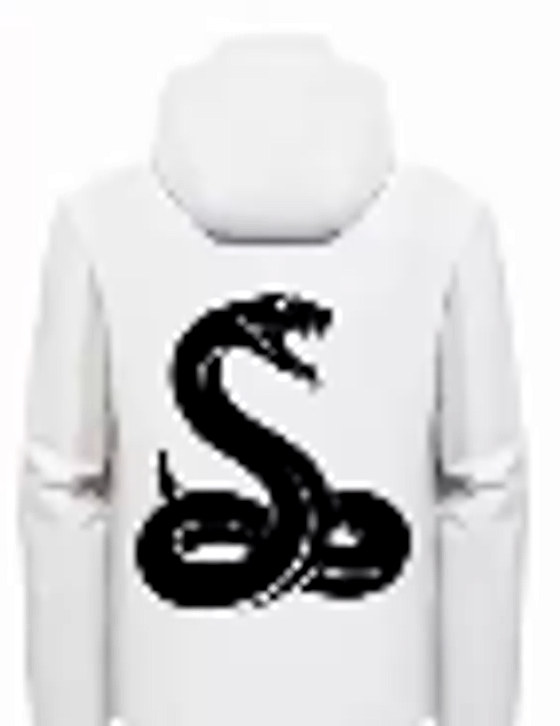
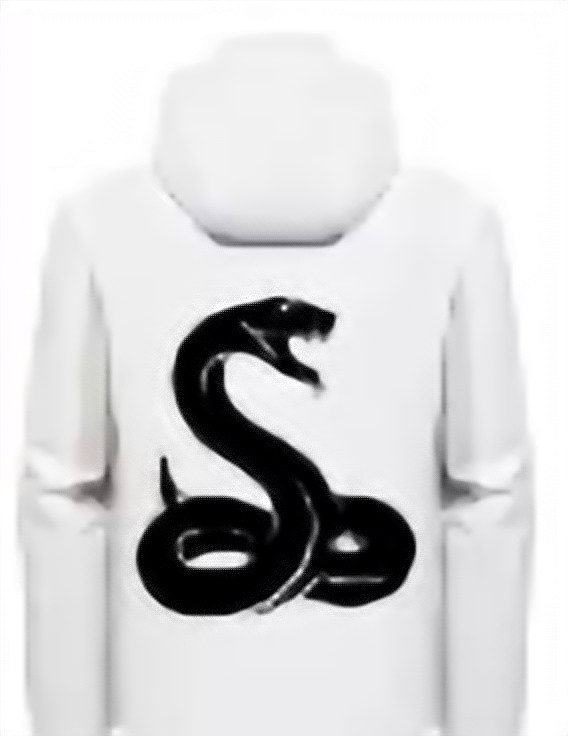
Upgrade product photos with LapSRN x8 neural super-resolution
Regenerate every product shot from the source captures through the
LapSRN x8 super-resolution network (OpenCV dnn_superres) instead of
plain lanczos scaling: smoother edges, no pixel staircase, ~900px
output. Removed a leftover UI bar from the sky-blue second view and
display beanie shots in full (contain) rather than zoom-cropped.

Claude-Session: https://claude.ai/code/session_01U9pzkuMLttuStWHPjtaiAH

diff --git a/index.html b/index.html
@@ -133,8 +133,8 @@
       <article class="product">
         <div class="product-media">
           <a class="media-frame" href="#">
-            <img class="active" src="assets/products/photo-beanie-1.jpg" alt="Venom Beanie noir avec serpent blanc" loading="lazy">
-            <img src="assets/products/photo-beanie-2.jpg" alt="Venom Beanie sable avec serpent noir" loading="lazy">
+            <img class="active contain" src="assets/products/photo-beanie-1.jpg" alt="Venom Beanie noir avec serpent blanc" loading="lazy">
+            <img class="contain" src="assets/products/photo-beanie-2.jpg" alt="Venom Beanie sable avec serpent noir" loading="lazy">
           </a>
           <button class="media-nav prev" type="button" aria-label="Image précédente">←</button>
           <button class="media-nav next" type="button" aria-label="Image suivante">→</button>

diff --git a/styles.css b/styles.css
@@ -373,6 +373,12 @@ a { color: inherit; text-decoration: none; }
 
 .media-frame img.active { opacity: 1; }
 
+.media-frame img.contain {
+  object-fit: contain;
+  background: #f4f4f2;
+  padding: 1.2rem;
+}
+
 .media-nav {
   position: absolute;
   top: 50%;
